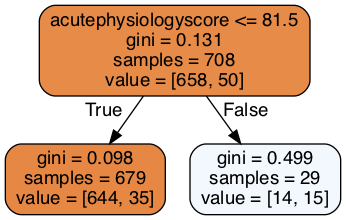
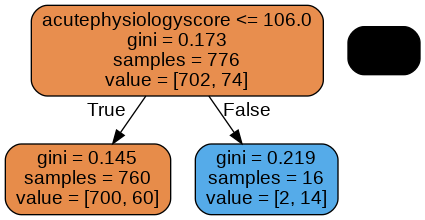
update figures

diff --git a/episodes/01-introduction.md b/episodes/01-introduction.md
@@ -35,23 +35,22 @@ import pandas as pd
 from matplotlib import pyplot as plt
 
 # load the data
-cohort = pd.read_csv('./eicu_cohort.csv')
+cohort = pd.read_csv('./eicu_cohort_trees.csv')
 
 # Display the first 5 rows of the data
 cohort.head()
 ```
 
-The data has been assigned to a dataframe called `cohort`. Each item that is listed after the `SELECT` statement appears as a column in the data. Let's take a look at the first few lines.
+The data has been assigned to a dataframe called `cohort`. Each item that is listed after the `SELECT` statement appears as a column in the data. Let's take a look at the first few lines:
 
-```
-        unitadmitsource  gender   age      unittype actualhospitalmortality  acutephysiologyscore
-0  Emergency Department  Female    87  Med-Surg ICU                   ALIVE                    23
-1  Emergency Department  Female    34  Med-Surg ICU                   ALIVE                    25
-2  Emergency Department  Female    60  Med-Surg ICU                   ALIVE                    53
-3  Emergency Department    Male    28  Med-Surg ICU                   ALIVE                    16
-4  Emergency Department  Female  > 89  Med-Surg ICU                   ALIVE                    33
-```
-{: .output}
+|index|gender|age|admissionweight|unabridgedhosplos|acutephysiologyscore|actualhospitalmortality|heartrate|meanbp|creatinine|temperature|respiratoryrate|wbc|admissionheight|
+|---|---|---|---|---|---|---|---|---|---|---|---|---|---|
+|0|Male|45\.0|116\.0|3\.0778|41|ALIVE|109\.0|154\.0|1\.01|36\.2|41\.0|10\.0|178\.0|
+|1|Male|57\.0|NaN|7\.6736|26|ALIVE|106\.0|46\.0|-1\.0|36\.3|6\.0|10\.1|172\.7|
+|2|Female|80\.0|65\.3|7\.8806|7|ALIVE|96\.0|106\.0|-1\.0|36\.4|18\.0|8\.5|170\.2|
+|3|Female|48\.0|86\.4|27\.5583|44|ALIVE|102\.0|54\.0|1\.16|36\.9|39\.0|6\.1|177\.8|
+|4|Female|59\.0|66\.6|15\.0778|56|ALIVE|134\.0|172\.0|1\.03|34\.8|32\.0|25\.5|170\.2|
+
 
 ## Preparing the data for analysis
 
@@ -75,33 +74,35 @@ cohort['age'] = cohort['age'].fillna(value=91.5)
 Now let's use the tableone package to review our dataset.
 
 ```python
+! pip install tableone
+
 from tableone import tableone
-columns = ['acutephysiologyscore','age','gender']
+
 t1 = tableone(cohort, groupby='actualhospitalmortality')
 print(t1.tabulate(tablefmt = "github"))
 ```
 
-```
-|                                    |                      | Missing   | Overall      | ALIVE       | EXPIRED     |
-|------------------------------------|----------------------|-----------|--------------|-------------|-------------|
-| n                                  |                      |           | 1012         | 937         | 75          |
-| unitadmitsource, n (%)             | Emergency Department | 0         | 1012 (100.0) | 937 (100.0) | 75 (100.0)  |
-| gender, n (%)                      |                      | 0         | 1 (0.1)      |             | 1 (1.3)     |
-|                                    | Female               |           | 400 (39.5)   | 368 (39.3)  | 32 (42.7)   |
-|                                    | Male                 |           | 611 (60.4)   | 569 (60.7)  | 42 (56.0)   |
-| age, mean (SD)                     |                      | 0         | 60.9 (19.0)  | 59.9 (19.0) | 72.8 (14.0) |
-| unittype, n (%)                    | CCU-CTICU            | 0         | 38 (3.8)     | 35 (3.7)    | 3 (4.0)     |
-|                                    | CSICU                |           | 7 (0.7)      | 7 (0.7)     |             |
-|                                    | CTICU                |           | 5 (0.5)      | 5 (0.5)     |             |
-|                                    | Cardiac ICU          |           | 58 (5.7)     | 55 (5.9)    | 3 (4.0)     |
-|                                    | MICU                 |           | 49 (4.8)     | 45 (4.8)    | 4 (5.3)     |
-|                                    | Med-Surg ICU         |           | 836 (82.6)   | 773 (82.5)  | 63 (84.0)   |
-|                                    | SICU                 |           | 19 (1.9)     | 17 (1.8)    | 2 (2.7)     |
-| acutephysiologyscore, mean (SD)    |                      | 0         | 38.8 (22.0)  | 36.6 (19.2) | 66.5 (33.5) |
-| actualhospitalmortality_enc, n (%) | 0                    | 0         | 937 (92.6)   | 937 (100.0) |             |
-|                                    | 1                    |           | 75 (7.4)     |             | 75 (100.0)  |
-```
-{: .output}
+The table below shows summary characteristics of our dataset:
+
+|                                    |         | Missing   | Overall      | ALIVE        | EXPIRED      |
+|------------------------------------|---------|-----------|--------------|--------------|--------------|
+| n                                  |         |           | 1109         | 1012         | 97           |
+| gender, n (%)                      | Female  | 0         | 621 (56.0)   | 576 (56.9)   | 45 (46.4)    |
+|                                    | Male    |           | 487 (43.9)   | 436 (43.1)   | 51 (52.6)    |
+|                                    | Unknown |           | 1 (0.1)      |              | 1 (1.0)      |
+| age, mean (SD)                     |         | 0         | 64.3 (16.7)  | 63.5 (16.7)  | 73.0 (14.5)  |
+| admissionweight, mean (SD)         |         | 27        | 83.1 (25.1)  | 83.5 (25.2)  | 79.2 (23.5)  |
+| unabridgedhosplos, mean (SD)       |         | 0         | 7.9 (10.1)   | 7.9 (10.0)   | 7.8 (11.1)   |
+| acutephysiologyscore, mean (SD)    |         | 0         | 42.9 (23.4)  | 40.2 (20.2)  | 70.5 (34.6)  |
+| heartrate, mean (SD)               |         | 0         | 102.4 (32.3) | 101.4 (31.5) | 112.9 (38.1) |
+| meanbp, mean (SD)                  |         | 0         | 89.5 (41.9)  | 90.0 (41.2)  | 84.3 (49.0)  |
+| creatinine, mean (SD)              |         | 0         | 0.9 (1.9)    | 0.8 (1.9)    | 1.3 (1.9)    |
+| temperature, mean (SD)             |         | 0         | 35.6 (5.6)   | 35.8 (5.0)   | 33.3 (9.7)   |
+| respiratoryrate, mean (SD)         |         | 0         | 27.9 (15.6)  | 27.4 (15.6)  | 33.1 (14.7)  |
+| wbc, mean (SD)                     |         | 0         | 7.6 (8.2)    | 7.3 (7.8)    | 10.5 (11.2)  |
+| admissionheight, mean (SD)         |         | 14        | 167.9 (14.1) | 167.8 (13.8) | 169.2 (16.8) |
+| actualhospitalmortality_enc, n (%) | 0       | 0         | 1012 (91.3)  | 1012 (100.0) |              |
+|                                    | 1       |           | 97 (8.7)     |              | 97 (100.0)   |
 
 ## Creating train and test sets
 

diff --git a/episodes/03-variance.md b/episodes/03-variance.md
@@ -27,8 +27,7 @@ mdl = mdl.fit(x_train, y_train)
 
 # plot tree
 plt.figure(figsize=[10,8])
-glowyr.plot_model_pred_2d(mdl, x_train, y_train,
-                      title="Decision tree (depth 5)")
+glowyr.plot_model_pred_2d(mdl, x_train, y_train, title="Decision tree (depth 5)")
 ```
 
 ![Simple tree (depth 5)](../fig/section3-fig1.png){: width="600px"}
@@ -61,7 +60,7 @@ Overfitting is a problem that occurs when our algorithm is too closely aligned t
 Let's prune the model and look again.
 
 ```python
-mdl = glowyr.prune(mdl, min_samples_leaf = 10)
+mdl = glowyr.prune(mdl, min_samples_leaf = 100)
 graph = glowyr.create_graph(mdl,feature_names=features)
 Image(graph.create_png())
 ```

diff --git a/episodes/02-decision-tree.md b/episodes/02-decision-tree.md
@@ -38,6 +38,8 @@ mdl = mdl.fit(x_train, y_train)
 Our model is so simple that we can look at the full decision tree.
 
 ```python
+!pip install glowyr
+
 import glowyr
 from IPython.display import display, Image
 
@@ -67,8 +69,7 @@ import matplotlib.pyplot as plt
 # look at the regions in a 2d plot
 # based on scikit-learn tutorial plot_iris.html
 plt.figure(figsize=[10,8])
-glowyr.plot_model_pred_2d(mdl, x_train, y_train, 
-                       title="Decision tree (depth 1)")
+glowyr.plot_model_pred_2d(mdl, x_train, y_train, title="Decision tree (depth 1)")
 ```
 
 ![Simple tree](../fig/section2-fig2.png){: width="600px"}

diff --git a/episodes/05-bagging.md b/episodes/05-bagging.md
@@ -34,8 +34,7 @@ fig = plt.figure(figsize=[12,6])
 for i, estimator in enumerate(mdl.estimators_):    
     ax = fig.add_subplot(2,3,i+1)
     txt = 'Tree {}'.format(i+1)
-    glowyr.plot_model_pred_2d(estimator, x_train, y_train, 
-                           title=txt)
+    glowyr.plot_model_pred_2d(estimator, x_train, y_train, title=txt)
 ```
 
 ![](../fig/section5-fig1.png){: width="900px"}
